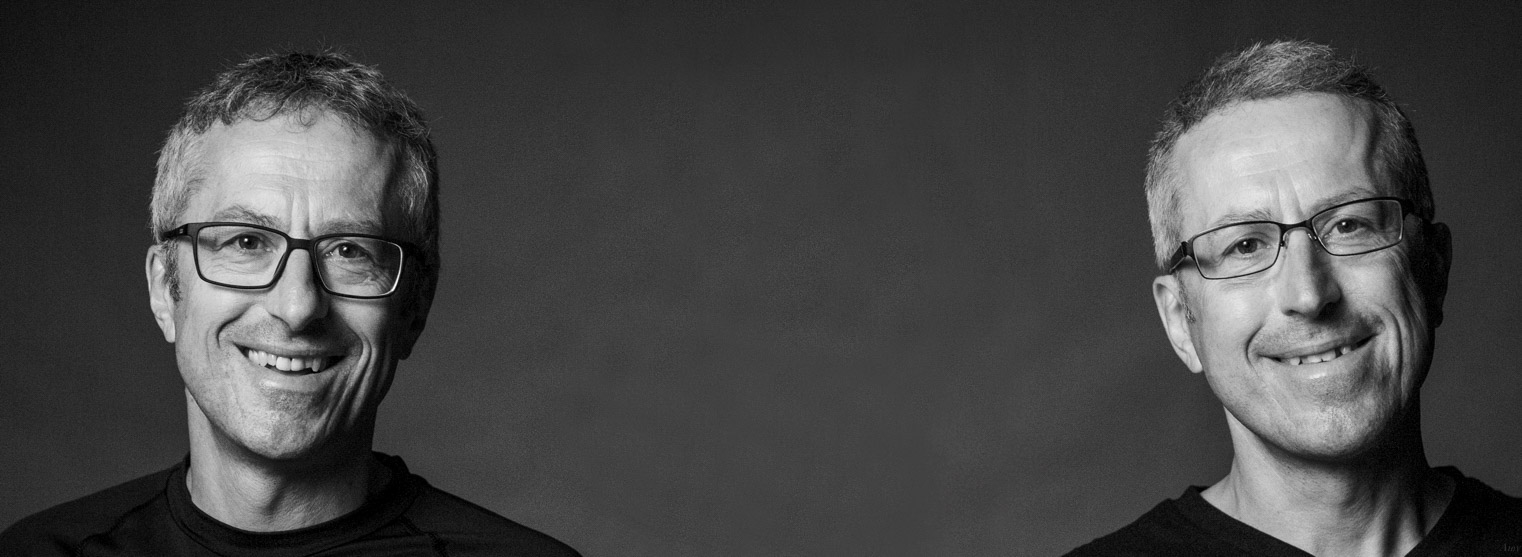
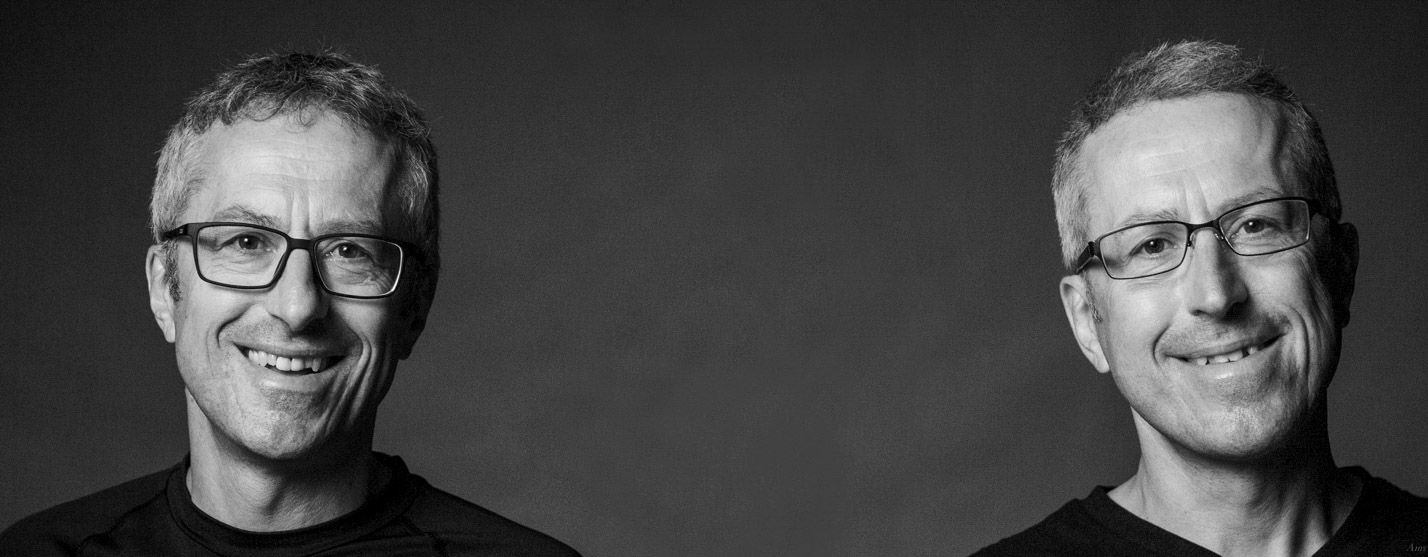
live experience landing page fixes

Changed region(s): [[0.0924, 0.0916, 0.4314, 1.0], [0.6779, 0.061, 0.9552, 1.0]]

diff --git a/portal/static/css/gil.css b/portal/static/css/gil.css
@@ -6231,10 +6231,12 @@ figure.nav-overlay {
     .accent-heading {
         font-size: 14px;
         letter-spacing: 2px;
+        padding: 2em;
     }
     .module__heading {
-        font-size: 28px;
+        font-size: 1.8em;
         line-height: 40px;
+        margin: 0 0.2em;
     }
 }
 [class*='theme-brown'] .module__heading--accent {
@@ -6261,8 +6263,9 @@ figure.nav-overlay {
         font-size: 24px;
     }
     .module__body {
-        font-size: 20px;
+        font-size: 22px;
         line-height: 28px;
+        margin: 1em;
     }
 }
 .module__form {
@@ -6566,11 +6569,11 @@ figure.nav-overlay {
 .module-wrap--story .accent-heading:after {
     background-color: #A9B2B7;
 }
-@media (min-width: 833px) {
+/*@media (min-width: 833px) {
     .module-wrap--story .module__body {
         padding: 0 35px 0 30px;
     }
-}
+}*/
 .story-title {
     color: black;
     font-size: 22px;
@@ -6601,10 +6604,21 @@ figure.nav-overlay {
 
 }
 .page-intro--lived-experience {
-    padding-top: 140px;
-    margin-top: -140px;
+    padding-top: 120px;
+    margin-top: -120px;
     background-position: 75% top;
     transition: background-position 150ms ease-out;
+}
+
+
+@media (min-width: 900px) {
+    .page-intro--lived-experience .page-intro__content {
+        min-height: 448px;
+        padding-top: 240px;
+    }
+}
+.page-intro--lived-experience .button-callout {
+    visibility: hidden;
 }
 .module-wrap--background,
 .module-wrap--background__center,
@@ -6630,14 +6644,14 @@ figure.nav-overlay {
 }
 .module-wrap--background__alonzo {
     background-image: url("../img/LE_Alonzo_McCann.jpg");
-    background-position: 65%;
+    background-position: 68%;
     transition: background-position 200ms ease-in-out;
 }
-@media (min-width: 1100px) {
+/*@media (min-width: 700px) {
     .module-wrap--background__alonzo {
         background-position: center center;
     }
-}
+}*/
 /*@media (min-width: 992px) {
     .module-wrap--background__alonzo {
         background-image: url("../img/LE_Alonzo_McCann.jpg");
@@ -6655,8 +6669,13 @@ figure.nav-overlay {
 }*/
 .module-wrap--background__twins {
     background-image: url("../img/LE_Hirsch_Brothers_Tablet.jpg");
-    background-position: 75%;
+    /*background-position: 65%;*/
     transition: background-position 200ms ease-in-out;
+}
+@media (min-width: 767px) {
+    .module-wrap--background__twins {
+        background-position: 62%;
+    }
 }
 @media (min-width: 1300px) {
     .module-wrap--background__twins {
@@ -6665,7 +6684,7 @@ figure.nav-overlay {
     }
 }
 .module-wrap--background .module__head {
-    font-size: 2.3em;
+    font-size: 2em;
 }
 
 @media (min-width: 1600px) {
@@ -6688,9 +6707,14 @@ figure.nav-overlay {
     }
 }
 .module-wrap--background .module__body {
-    padding: 2% 5%;
+    padding: 2% 10%;
     min-height: 100px;
     transition: padding 150ms ease-out;
+}
+@media (min-width: 767px) {
+    .module-wrap--background .module__body {
+        padding: 6% 18%;
+    }
 }
 @media (min-width: 851px) {
     .module-wrap--background .module__body {
@@ -6702,15 +6726,15 @@ figure.nav-overlay {
         line-height: 1.4em;
     }
 }
-@media (min-width: 1100px) {
+@media (min-width: 1200px) {
     .module-wrap--background .module__body {
         padding: 2% 15%;
     }
 }
 
-@media (min-width: 1200px) {
+@media (min-width: 1300px) {
     .module-wrap--background .module__body {
-        padding: 1% 11%;
+        padding: 1% 7%;
     }
 }
 
@@ -6722,7 +6746,7 @@ figure.nav-overlay {
 .module-wrap--background .module--shift__right,
 .module-wrap--background .module--shift__left {
     z-index: 2;
-    padding: 3% 1%;
+    padding: 4% 1%;
     transition: padding 150ms ease-in;
 }
 
@@ -6739,7 +6763,8 @@ figure.nav-overlay {
         margin: 0 0.5em;
     }
 }
-@media (max-width: 851px) {
+/*@media (max-width: 851px) {*/
+@media (max-width: 767px) {
     main .module-wrap--background {
         background: #5d5a55;
         background-image: none !important;
@@ -6750,10 +6775,10 @@ figure.nav-overlay {
     }
     img.mobile {
         display: block;
-        width: 350px;
+        width: 450px;
         max-width: 100%;
         margin: 0 auto 1.5em auto;
-        padding: 1em 0;
+        padding: 1em 1.5em;
     }
     .module-wrap--background .module {
         padding: 8% 2%;
@@ -6763,6 +6788,7 @@ figure.nav-overlay {
     .module-wrap--background .module__heading {
         padding-left: 10px;
         padding-right: 10px;
+        padding-bottom: 1em;
     }
     .module-wrap--background .button--brown {
         margin: 0 20px;
@@ -6774,14 +6800,15 @@ aside .module-wrap--background {
     background-position: center;
     transition: background-position 150ms ease-in;
 }
+
 @media (min-width: 550px) {
-    aside .module-wrap--background {
+    aside .module-wrap--background .module{
         padding-top: 8%;
     }
 }
 @media (min-width: 992px) {
     aside .module-wrap--background {
-        padding-top: 6%;
+        padding-top: 2%;
     }
 }
 aside .module--flex {
@@ -6871,7 +6898,7 @@ aside .module--flex {
     width: 200px;
     max-width: 100%;
     top: 43%;
-    height: 2.5em;
+    height: 3em;
     font-size: 0.65em;
     border: 0;
     letter-spacing: 2px;

diff --git a/portal/templates/gil/lived-experience.html b/portal/templates/gil/lived-experience.html
@@ -6,6 +6,9 @@
         <div class="page-intro__content">
           <div class="accent-heading accent-heading--white">Objective N<em>o</em>1: LIVED EXPERIENCE</div>
           <p class="page-intro__sub">TrueNTH brings lived experiences from men, their caregivers and clinicians to help you in your prostate cancer journey.</p>
+          <!-- <div class="button-callout"><strong class="js-scroll-down" data-target=".page-intro">Learn More</strong>
+            <figure class="js-scroll-down" data-target=".page-intro"></figure>
+          </div> -->
         </div>
       </div>
       <div class="module-wrap module-wrap--background module-wrap--background__alonzo">

diff --git a/portal/templates/gil/lived_experience_base.html b/portal/templates/gil/lived_experience_base.html
@@ -1,6 +1,6 @@
 {% extends "gil/base.html" %}
 {% block footnote %}
-<aside>
+<aside class="aside--up">
      <div class="module-wrap module-wrap--background" style="background-image: url({{ url_for('static', filename='img/LE_Share_Story.jpg') }})">
         <div class="module">
           <div class="accent-heading accent-heading--white">Objective N<em>o</em>1: TrueNTH Community</div>
